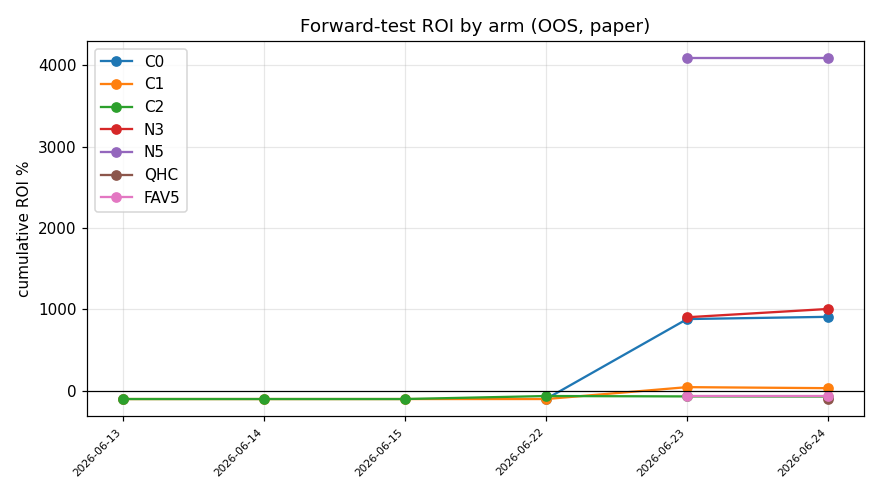
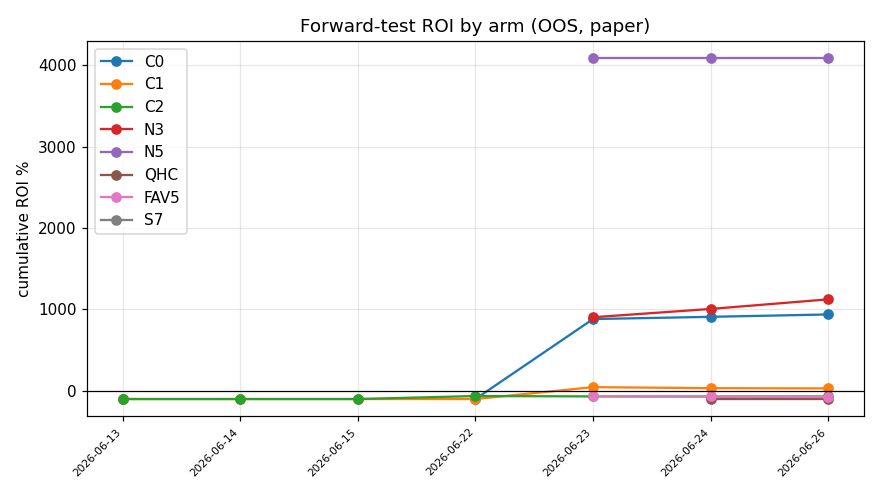
sp_drift: add stable SP S7 forward arm

diff --git a/src/sp_drift/forward.py b/src/sp_drift/forward.py
@@ -20,6 +20,15 @@ FORWARD_START = "2026-06-13"  # naive Beijing date; kickoffs after this are OOS
 HAIRCUT_MAP = {"<3.5": 0.33, "3.5-4.5": -0.09, "4.5-5": -0.21, "5-8": -0.36, ">8": -0.81}
 
 WINDOW_MTK = 180.0  # 3h, mirrors the live kickoff_window_hours=3 (MTK proxy)
+STABLE_MTK = 60.0   # 1h, descriptive stable-SP main-strategy arm.
+STABLE_BASE_MTK = 600.0
+
+STABLE_STRICT = {
+    "max_odds": 4.5,
+    "min_multiplier": 0.85,
+    "max_abs_log_move": 0.12,
+    "min_stability_score": 0.80,
+}
 
 
 def forward_panel(panel: pd.DataFrame, min_kickoff: str) -> pd.DataFrame:
@@ -72,6 +81,175 @@ def build_qhc_arm(model, decision_mtk: float = WINDOW_MTK,
     recovers value the frozen-band C2 haircut misses. Descriptive, not GATE-FT."""
     return ("QHC", Policy(mtk_target=decision_mtk,
                           sp_adjust=lambda sp: model.adjusted_sp(sp, decision_mtk, q)))
+
+
+def _odds_stability_component(odds: float) -> float:
+    if odds < 3.5:
+        return 1.10
+    if odds < 4.5:
+        return 1.00
+    if odds < 5.0:
+        return 0.75
+    if odds < 8.0:
+        return 0.45
+    return 0.20
+
+
+def _move_stability_component(move_log: float | None) -> float:
+    import math
+    if move_log is None:
+        return 1.0
+    return max(0.25, min(1.15, math.exp(-abs(move_log) / 0.16)))
+
+
+def stable_sp_decision_snapshots(
+    panel: pd.DataFrame,
+    model,
+    *,
+    forward_start: str = FORWARD_START,
+    decision_mtk: float = STABLE_MTK,
+    base_mtk: float = STABLE_BASE_MTK,
+    max_odds: float = STABLE_STRICT["max_odds"],
+    min_multiplier: float = STABLE_STRICT["min_multiplier"],
+    max_abs_log_move: float = STABLE_STRICT["max_abs_log_move"],
+    min_stability_score: float = STABLE_STRICT["min_stability_score"],
+):
+    """Return 1h decision LiveSnapshots with unstable selections nulled out.
+
+    This is the live-forward analogue of the XLSM `baseline_q_sp_stable` gate:
+    moderate SP, predicted settlement ratio not too adverse, and small recent
+    move from 10h to 1h. It is descriptive and does not alter C0/C1/C2.
+    """
+    import math
+
+    from src.phase5a.data_loader import LiveSnapshot
+    from src.sp_drift import panel as P
+
+    fp = forward_panel(panel, forward_start)
+    dec = P.decision_view(fp, mtk_target=decision_mtk)
+    base = P.decision_view(fp, mtk_target=base_mtk)
+    base_sp = {
+        (str(r["match_id"]), str(r["selection"])): float(r["sp"])
+        for _, r in base.iterrows()
+        if r["sp"] and float(r["sp"]) > 1.0
+    }
+
+    out = []
+    for mid, grp in dec.groupby("match_id"):
+        any_row = grp.iloc[0]
+        kept: dict[str, float] = {}
+        for _, row in grp.iterrows():
+            sel = str(row["selection"])
+            sp = float(row["sp"])
+            if sp <= 1.0 or sp > max_odds:
+                continue
+            multiplier, _sd, _n = model.lookup(sp, float(row["mtk"]))
+            if multiplier < min_multiplier:
+                continue
+            b = base_sp.get((str(mid), sel))
+            move_log = None
+            if b is not None and b > 1.0:
+                move_log = math.log(sp / b)
+                if abs(move_log) > max_abs_log_move:
+                    continue
+            stability_score = multiplier * _odds_stability_component(sp) * _move_stability_component(move_log)
+            if stability_score < min_stability_score:
+                continue
+            kept[sel] = sp
+
+        if not kept:
+            continue
+        out.append(
+            LiveSnapshot(
+                match_id=str(mid),
+                issue=str(any_row["issue"]),
+                match_idx=int(any_row["match_idx"]),
+                league=any_row["league"],
+                kickoff_ts=str(any_row["kickoff_ts"]),
+                home=None,
+                away=None,
+                handicap_line=(None if pd.isna(any_row["handicap_line"]) else float(any_row["handicap_line"])),
+                sp_3=kept.get("3"),
+                sp_1=kept.get("1"),
+                sp_0=kept.get("0"),
+                snapshot_ts=None,
+            )
+        )
+    return out
+
+
+def stable_sp_arm_row(panel, live_db_path, niche_config, run_date: str, *,
+                      forward_start: str = FORWARD_START, n_legs: int = 7,
+                      decision_mtk: float = STABLE_MTK,
+                      base_mtk: float = STABLE_BASE_MTK,
+                      start_bankroll: float = 100000.0,
+                      kelly_fraction: float = 0.0625,
+                      combo_ev_threshold: float = 0.05,
+                      weekly_stake_cap_frac: float = 0.25,
+                      max_odds: float = STABLE_STRICT["max_odds"],
+                      min_multiplier: float = STABLE_STRICT["min_multiplier"],
+                      max_abs_log_move: float = STABLE_STRICT["max_abs_log_move"],
+                      min_stability_score: float = STABLE_STRICT["min_stability_score"]) -> dict:
+    """Descriptive stable-SP N=7 paper arm.
+
+    Trains the drift model on pre-forward data only, filters the 1h live panel
+    with the strict stable-SP gate, then uses the existing planner and settles
+    against true `winning_sp`. Not part of the C0/C1/C2 GATE-FT verdict.
+    """
+    from src.backtest_combo.settler import settle_plans
+    from src.phase5a.planner import build_weekly_plan
+    from src.sp_drift.drift_model import fit_drift_model
+    from src.sp_drift.replay import actuals_from_db, aggregate_equity
+
+    model = fit_drift_model(training_panel(panel, forward_start))
+    snaps = stable_sp_decision_snapshots(
+        panel,
+        model,
+        forward_start=forward_start,
+        decision_mtk=decision_mtk,
+        base_mtk=base_mtk,
+        max_odds=max_odds,
+        min_multiplier=min_multiplier,
+        max_abs_log_move=max_abs_log_move,
+        min_stability_score=min_stability_score,
+    )
+    actuals = actuals_from_db(live_db_path)
+
+    by_issue: dict = {}
+    for snap in snaps:
+        by_issue.setdefault(snap.issue, []).append(snap)
+
+    bankroll = start_bankroll
+    weeks = []
+    n_tickets = 0
+    n_hits = 0
+    for issue in sorted(by_issue):
+        pr = build_weekly_plan(
+            by_issue[issue],
+            bankroll=bankroll,
+            niche_config=niche_config,
+            n_legs=n_legs,
+            kelly_fraction=kelly_fraction,
+            combo_ev_threshold=combo_ev_threshold,
+            weekly_stake_cap_frac=weekly_stake_cap_frac,
+        )
+        setts = settle_plans(pr.tickets, actuals)
+        stake = float(sum(t.total_stake for t in pr.tickets))
+        pnl = float(sum(s.total_profit for s in setts))
+        n_tickets += len(pr.tickets)
+        n_hits += sum(1 for s in setts if s.all_hit)
+        weeks.append((issue, stake, pnl))
+        bankroll += pnl
+
+    res = aggregate_equity(weeks, start_bankroll=start_bankroll)
+    return {
+        "run_date": run_date, "arm": f"S{n_legs}", "forward_start": forward_start,
+        "n_combos": n_tickets, "n_hits": n_hits,
+        "total_stake": res["total_stake"], "total_pnl": res["total_pnl"],
+        "roi": res["roi"], "max_dd": res["max_dd"],
+        "final_bankroll": res["final_bankroll"],
+        "weekly_sigma": _weekly_sigma(res.get("equity", [])),
+    }
 
 
 LEDGER_COLS = ["run_date", "arm", "forward_start", "n_combos", "n_hits",

diff --git a/tests/sp_drift/test_forward.py b/tests/sp_drift/test_forward.py
@@ -247,6 +247,76 @@ def test_run_forward_includes_qhc_arm(tmp_path):
     assert set(LEDGER_COLS) <= set(qhc)
 
 
+def test_stable_sp_decision_snapshots_filters_unstable_legs():
+    from src.sp_drift.forward import stable_sp_decision_snapshots
+
+    class NeutralModel:
+        def lookup(self, sp, mtk):
+            return (1.0, 0.0, 10)
+
+    panel = pd.DataFrame([
+        # M1 passes: odds <= 4.5 and small 10h->1h move.
+        {"match_id": "M1", "selection": "3", "sp": 4.0, "mtk": 600.0, "kickoff_ts": "2026-06-20T19:00:00",
+         "issue": "26099", "match_idx": 1, "league": "英超", "handicap_line": 2.0},
+        {"match_id": "M1", "selection": "3", "sp": 4.05, "mtk": 60.0, "kickoff_ts": "2026-06-20T19:00:00",
+         "issue": "26099", "match_idx": 1, "league": "英超", "handicap_line": 2.0},
+        # M2 fails max_odds.
+        {"match_id": "M2", "selection": "3", "sp": 5.2, "mtk": 600.0, "kickoff_ts": "2026-06-20T19:00:00",
+         "issue": "26099", "match_idx": 2, "league": "英超", "handicap_line": 2.0},
+        {"match_id": "M2", "selection": "3", "sp": 5.2, "mtk": 60.0, "kickoff_ts": "2026-06-20T19:00:00",
+         "issue": "26099", "match_idx": 2, "league": "英超", "handicap_line": 2.0},
+        # M3 fails recent move.
+        {"match_id": "M3", "selection": "3", "sp": 3.0, "mtk": 600.0, "kickoff_ts": "2026-06-20T19:00:00",
+         "issue": "26099", "match_idx": 3, "league": "英超", "handicap_line": 2.0},
+        {"match_id": "M3", "selection": "3", "sp": 4.4, "mtk": 60.0, "kickoff_ts": "2026-06-20T19:00:00",
+         "issue": "26099", "match_idx": 3, "league": "英超", "handicap_line": 2.0},
+    ])
+    snaps = stable_sp_decision_snapshots(panel, NeutralModel(), forward_start="2026-06-13")
+    assert [s.match_id for s in snaps] == ["M1"]
+    assert snaps[0].sp_3 == 4.05 and snaps[0].sp_1 is None and snaps[0].sp_0 is None
+
+
+def test_stable_sp_arm_row_returns_s7_ledger_row(tmp_path):
+    from src.sp_drift.forward import stable_sp_arm_row
+
+    db = tmp_path / "stable.db"
+    con = sqlite3.connect(db)
+    con.executescript(
+        "CREATE TABLE matches (match_id TEXT PRIMARY KEY, issue TEXT, match_idx INTEGER,"
+        " league TEXT, kickoff_ts TEXT, home TEXT, away TEXT, handicap_line REAL);"
+        "CREATE TABLE snapshots (id INTEGER PRIMARY KEY AUTOINCREMENT, match_id TEXT,"
+        " snapshot_ts TEXT, sp_3 REAL, sp_1 REAL, sp_0 REAL, vol_pct_3 REAL,"
+        " vol_pct_1 REAL, vol_pct_0 REAL, pool_total REAL);"
+        "CREATE TABLE settlements (match_id TEXT, result_code TEXT, winning_sp REAL);")
+    for phase, issue, kickoff in [
+        ("train", "26040", "2026-06-10T19:35:00"),
+        ("forward", "26099", "2026-06-20T19:35:00"),
+    ]:
+        day = "2026-06-10" if phase == "train" else "2026-06-20"
+        for i in range(1, 9):
+            mid = f"{phase}_{i}"
+            con.execute("INSERT INTO matches VALUES (?,?,?,?,?,?,?,?)",
+                        (mid, issue, i, "英超", kickoff, "H", "A", 1.0))
+            # 10h and 1h snapshots. Stable away SP fits the phase5a
+            # away_sp_3.0-3.5_h1 rule and remains below the N=7 tax-cap cliff.
+            con.execute("INSERT INTO snapshots (match_id,snapshot_ts,sp_3,sp_1,sp_0,"
+                        "vol_pct_3,vol_pct_1,vol_pct_0,pool_total) VALUES (?,?,?,?,?,?,?,?,?)",
+                        (mid, f"{day}T01:35:00Z", 2.5, 2.4, 3.4, 0, 0, 0, 1000))
+            con.execute("INSERT INTO snapshots (match_id,snapshot_ts,sp_3,sp_1,sp_0,"
+                        "vol_pct_3,vol_pct_1,vol_pct_0,pool_total) VALUES (?,?,?,?,?,?,?,?,?)",
+                        (mid, f"{day}T10:35:00Z", 2.5, 2.4, 3.4, 0, 0, 0, 1000))
+            con.execute("INSERT INTO settlements VALUES (?,?,?)", (mid, "0", 3.4))
+    con.commit(); con.close()
+
+    pan = P.build(db, cache_path=tmp_path / "stable.parquet", rebuild=True)
+    row = stable_sp_arm_row(pan, db, NicheConfig.load(), run_date="2026-06-21",
+                            forward_start="2026-06-13", n_legs=7,
+                            start_bankroll=1_000_000.0, kelly_fraction=0.25)
+    assert row["arm"] == "S7"
+    assert set(LEDGER_COLS) <= set(row)
+    assert row["n_combos"] > 0
+
+
 # ---- P3 fix: QHC model must train only on pre-forward data (no leakage) ----
 def test_training_panel_is_preforward_complement():
     from src.sp_drift.forward import training_panel

diff --git a/scripts/run_sp_drift_forward.py b/scripts/run_sp_drift_forward.py
@@ -34,6 +34,11 @@ def main() -> None:
     # FAV5: descriptive 'bet the favorite, N=5' arm (flat-staked, not GATE-FT).
     rows.append(F.favorite_arm_row(pan, LIVE, today, forward_start=F.FORWARD_START,
                                    n_legs=5, mtk_target=baseline))
+    # S7: descriptive 1h strict stable-SP N=7 arm. It is a paper-only follow-up
+    # to docs/research/n7_sp_stability_gate_2026-06-26.md and is not part of
+    # the C0/C1/C2 GATE-FT verdict.
+    rows.append(F.stable_sp_arm_row(pan, LIVE, cfg, today, forward_start=F.FORWARD_START,
+                                    n_legs=7))
     ledger = F.append_ledger(rows, LEDGER)
     status = F.check_stopping_rule(ledger, F.FORWARD_START, today)
 
@@ -80,6 +85,9 @@ def main() -> None:
         "> **FAV5 是「押每场最热门(最低SP)、N=5」arm**（平注，非 Kelly）：检验"
         "「抽水每票一次×热门 realized p×SP>1×中等N」的假说（见 high_n_favorite_parlay 研究）；"
         "roi/命中率/周σ 为有效指标，其 MaxDD 与 Kelly-sized 的 C/N arm 不可直接比；不进 GATE-FT。",
+        "> **S7 是「1h strict stable-SP, N=7」arm**：在 1h 决策面板上只保留温和 SP、"
+        "预测结算倍率不差、10h→1h 变化不剧烈的腿，然后走现有 phase5a planner 并用真实 winning_sp 结算。"
+        "该 arm 是 `n7_sp_stability_gate_2026-06-26.md` 的 live OOS 纸面跟踪，不进 GATE-FT。",
         "> ⚠ **运营口径差**：C1/C2 的 window 是按期次池化、每场各取其「距开赛 180min」的 SP；"
         "实盘 `kickoff_window_hours` 是「距现在 N 小时内开赛」的同时性过滤，二者不等价。"
         "经 P1 权衡分析（2026-06-14）：受 N=4 需 ≥30 场同时在池约束，任何窗口值都无法两全"

diff --git a/docs/research/sp_drift_forward.md b/docs/research/sp_drift_forward.md
@@ -1,29 +1,31 @@
 # SP 漂移 Forward-Test（纸面 · OOS）
 
-run_date=2026-06-24; FORWARD_START=2026-06-13; weeks_elapsed=1.6
+run_date=2026-06-26; FORWARD_START=2026-06-13; weeks_elapsed=1.9
 
 ## 各 arm 累计（FORWARD_START 至今的样本外切片）
 
 | arm | 组合 | 命中 | 命中率 | 总投注 | ROI | MaxDD | 周σ |
 |-----|------|------|--------|--------|-----|-------|-----|
-| C0 | 100 | 5 | 5.0% | 286 | **+909.8%** | 0% | 1,117.0 |
-| C1 | 170 | 4 | 2.4% | 666 | **+33.4%** | 0% | 355.6 |
-| C2 | 200 | 1 | 0.5% | 2,268 | **-69.2%** | 2% | 368.0 |
-| N3 | 40 | 14 | 35.0% | 748 | **+1006.6%** | 0% | 3,063.9 |
+| C0 | 100 | 5 | 5.0% | 278 | **+938.9%** | 0% | 1,116.3 |
+| C1 | 179 | 4 | 2.2% | 682 | **+30.3%** | 0% | 357.3 |
+| C2 | 200 | 1 | 0.5% | 2,242 | **-68.8%** | 2% | 369.3 |
+| N3 | 38 | 14 | 36.8% | 676 | **+1124.5%** | 0% | 3,056.6 |
 | N5 | 6 | 1 | 16.7% | 14 | **+4087.7%** | 0% | 230.9 |
 | QHC | 100 | 0 | 0.0% | 256 | **-100.0%** | 0% | 62.3 |
-| FAV5 | 600 | 4 | 0.7% | 600 | **-66.4%** | 0% | 67.9 |
+| FAV5 | 800 | 4 | 0.5% | 800 | **-74.8%** | 1% | 65.6 |
+| S7 | 0 | 0 | 0.0% | 0 | — | 0% | 0.0 |
 
 ## 停止规则 / GATE-FT 状态
 
 - stop=True  reason=n_combos>=200  **verdict=no_go**
-- C2 组合数 200/200 · 周数 1.6/12 · C2 MaxDD 2%/50%
-- ROI: C0 +909.8% / C1 +33.4% / C2 -69.2%（go 需 C2>0 且 C2−C0≥5pp 且 C1−C0≥5pp）
+- C2 组合数 200/200 · 周数 1.9/12 · C2 MaxDD 2%/50%
+- ROI: C0 +938.9% / C1 +30.3% / C2 -68.8%（go 需 C2>0 且 C2−C0≥5pp 且 C1−C0≥5pp）
 
 > 纸面、样本外、haircut 冻结在 GATE 1 值。样本初期很小，勿据早期数据下结论。
 > **N3 / N5 是描述性 N-sweep arm**（与 C0 同决策时机、仅 n_legs 不同），用于观察腿数对 ROI/漂移的影响（盈亏归因显示漂移随 N 乘法放大）；**不参与 GATE-FT 判定**（judging 仍只看 C0/C1/C2）。
 > **QHC 是「模型保守分位 haircut」arm**（与 C1/C2 同决策时机=180min 窗口，但 sizing 用 (SP档×MTK桶) 漂移模型的 q=0.25 保守分位预测结算 SP，而非 C2 的冻结档位点估计）；**模型仅在 FORWARD_START 之前的数据上拟合（无前瞻泄露）**；检验模型+分位能否捞回 C2 漏掉的价值；不进 GATE-FT。
 > **FAV5 是「押每场最热门(最低SP)、N=5」arm**（平注，非 Kelly）：检验「抽水每票一次×热门 realized p×SP>1×中等N」的假说（见 high_n_favorite_parlay 研究）；roi/命中率/周σ 为有效指标，其 MaxDD 与 Kelly-sized 的 C/N arm 不可直接比；不进 GATE-FT。
+> **S7 是「1h strict stable-SP, N=7」arm**：在 1h 决策面板上只保留温和 SP、预测结算倍率不差、10h→1h 变化不剧烈的腿，然后走现有 phase5a planner 并用真实 winning_sp 结算。该 arm 是 `n7_sp_stability_gate_2026-06-26.md` 的 live OOS 纸面跟踪，不进 GATE-FT。
 > ⚠ **运营口径差**：C1/C2 的 window 是按期次池化、每场各取其「距开赛 180min」的 SP；实盘 `kickoff_window_hours` 是「距现在 N 小时内开赛」的同时性过滤，二者不等价。经 P1 权衡分析（2026-06-14）：受 N=4 需 ≥30 场同时在池约束，任何窗口值都无法两全（紧→autoplan 饿死、松→漂移不降），故实盘窗口已改回 0。本 test 量化的是「理想临近决策」的上界，落地需运营机制重设计（已搁置）。
 
 ![forward roi](figures/sp_drift_forward_roi.png)
